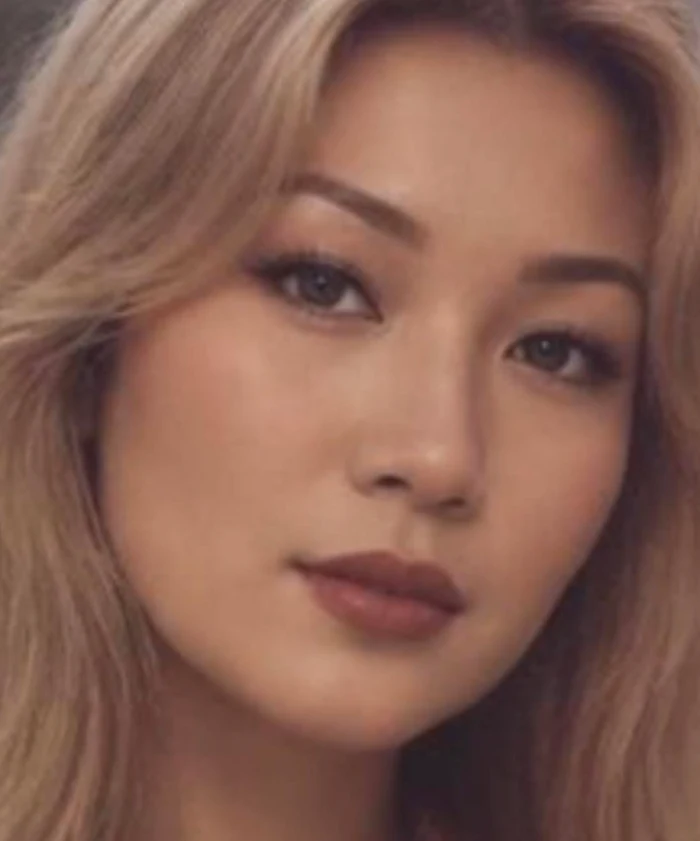
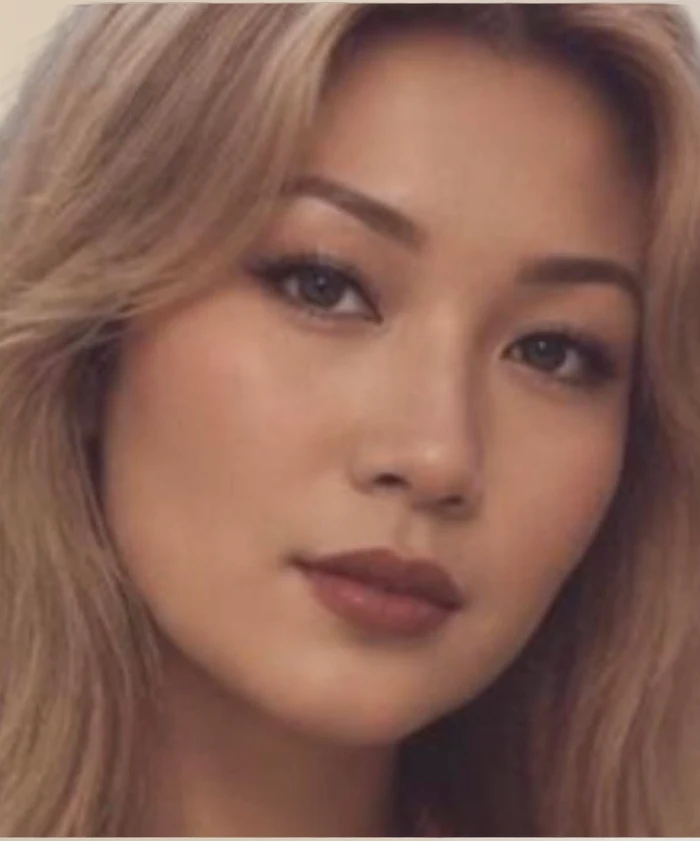
Give Tessie and Lorna the same soft backdrop as the owner photo
Claude-Session: https://claude.ai/code/session_011coCkzkfc47nqKLdfrXQuC

diff --git a/index.html b/index.html
@@ -25,7 +25,7 @@
   <link rel="preload" as="style" href="https://fonts.googleapis.com/css2?family=Figtree:wght@400;500;600;700&family=Kaushan+Script&family=Oswald:wght@500;600;700&family=Yellowtail&display=swap">
   <link rel="stylesheet" href="https://fonts.googleapis.com/css2?family=Figtree:wght@400;500;600;700&family=Kaushan+Script&family=Oswald:wght@500;600;700&family=Yellowtail&display=swap" media="print" onload="this.media='all'">
   <noscript><link rel="stylesheet" href="https://fonts.googleapis.com/css2?family=Figtree:wght@400;500;600;700&family=Kaushan+Script&family=Oswald:wght@500;600;700&family=Yellowtail&display=swap"></noscript>
-  <link rel="stylesheet" href="styles.css?v=1792391359">
+  <link rel="stylesheet" href="styles.css?v=1792438376">
   <script>document.documentElement.className = document.documentElement.className.replace("no-js", "js");</script>
 </head>
 <body>
@@ -543,6 +543,6 @@
     </a>
   </div>
 
-  <script src="script.js?v=1792391359" defer></script>
+  <script src="script.js?v=1792438376" defer></script>
 </body>
 </html>
